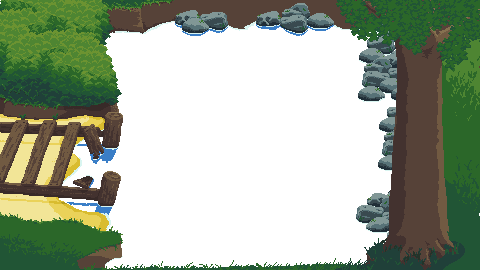
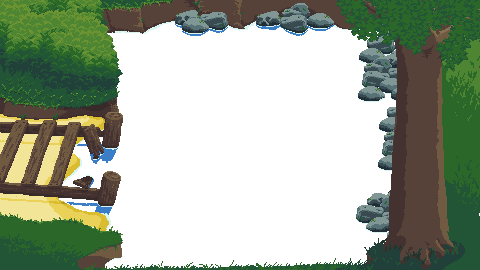
bit of drawing

diff --git a/Stage/Stage.cs b/Stage/Stage.cs
@@ -113,6 +113,23 @@ namespace Hopper
             }
             Position = position - new Vector2(240, 135);
 
+            if (StageData.Pond == "Hawkins")
+            {
+                Background.Texture = GD.Load<Texture>("res://Stage/Resources/DesertPond.png");
+            }
+            else if (StageData.Pond == "BelAir")
+            {
+                Background.Texture = GD.Load<Texture>("res://Stage/Resources/TestPondDrawing4.png");
+            }
+            else if (StageData.Pond == "Liffey")
+            {
+                Background.Texture = GD.Load<Texture>("res://Stage/Resources/TestPondDrawing4.png");
+            }
+            else
+            {
+                Background.Texture = GD.Load<Texture>("res://Stage/Resources/TestPondDrawing4.png");
+            }
+
             HUD.LockPosition(Position);
 
             //Connect(nameof(Stage.TimeUpdate), Stopwatch, "UpdateStopwatch"); //FIXME: need to sort out stopwatch at some point
